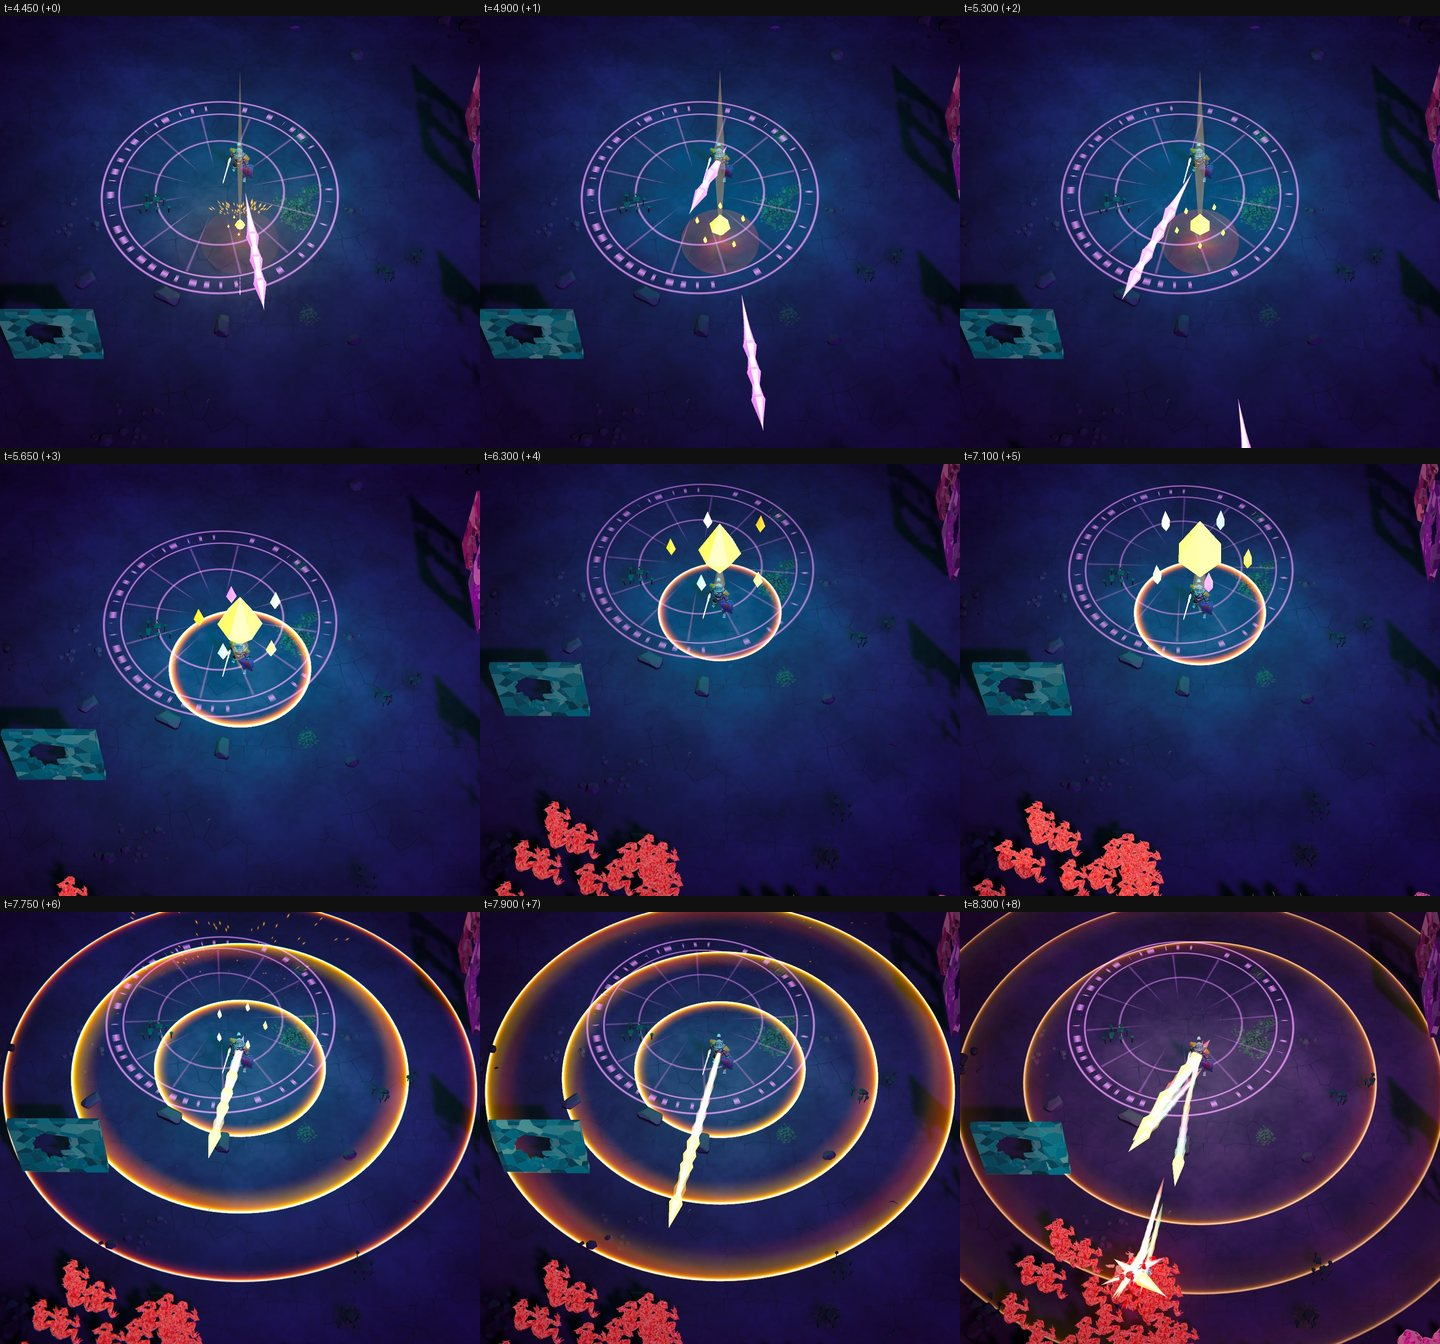
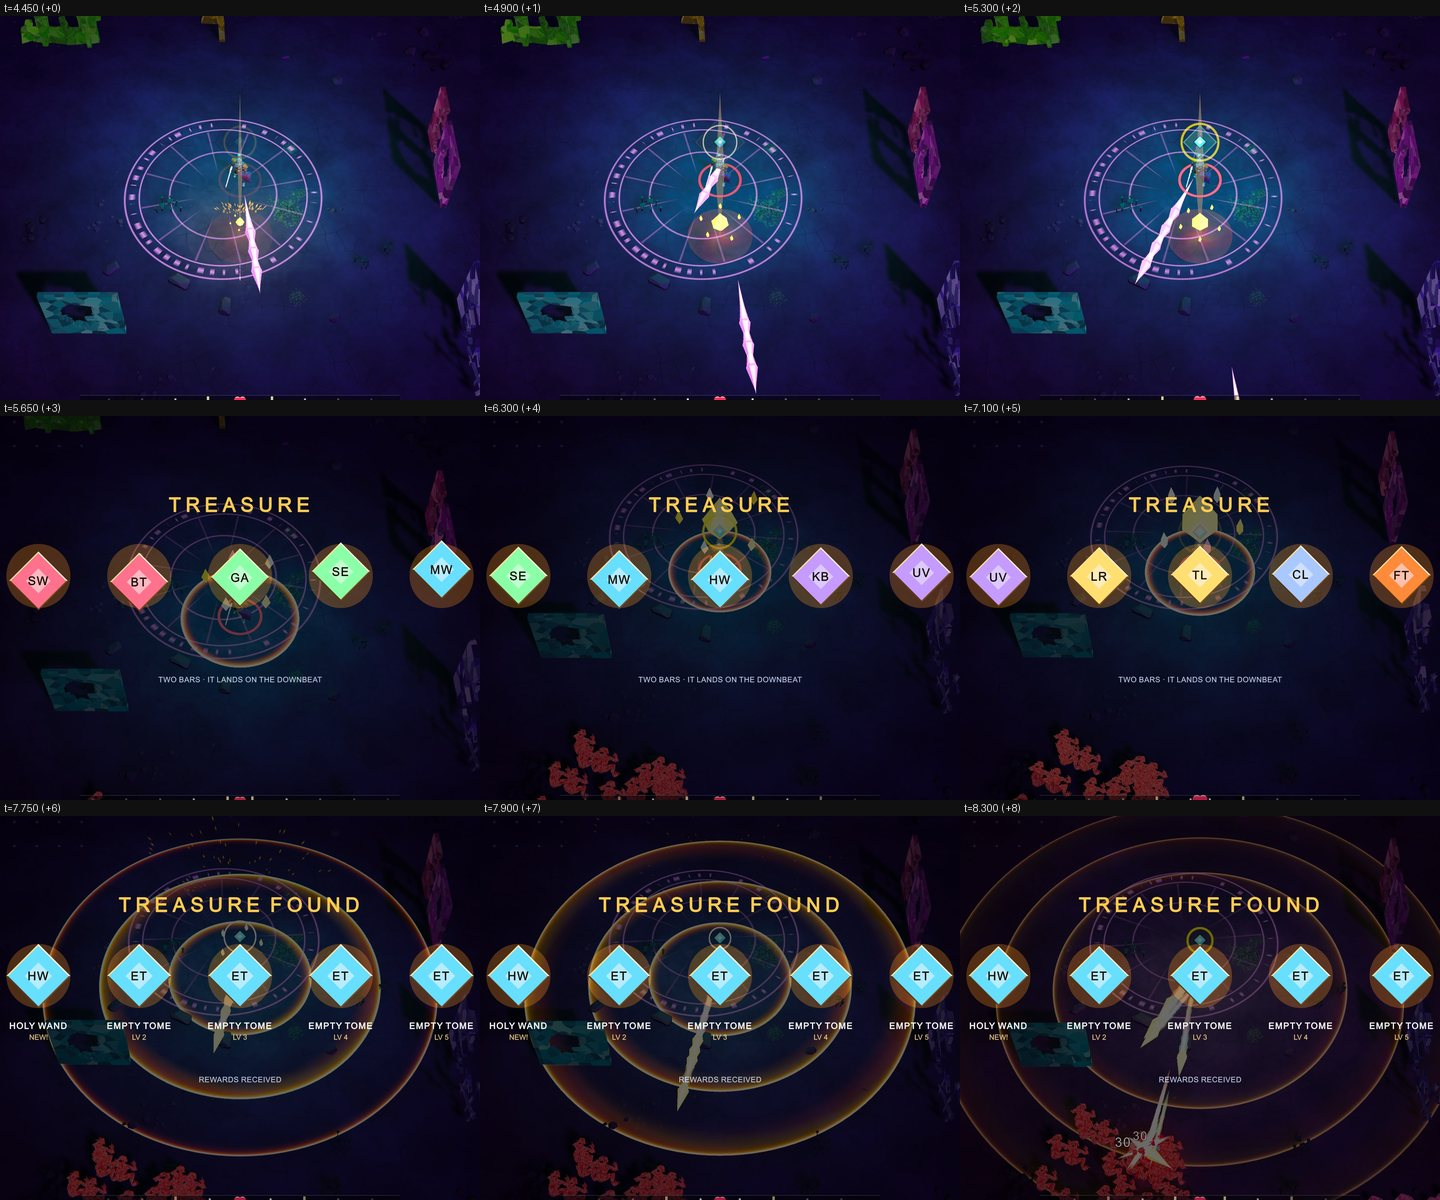
feat(game): the HUD's chest card takes the sim's chest events — opening with the roulette, its gems cycling on each tick as it comes, TREASURE FOUND with each reward from the landing; the chest strip with the HUD (ps-msz.6.8)

diff --git a/game/Assets/Game/Client/Hud/ChestCards.cs b/game/Assets/Game/Client/Hud/ChestCards.cs
@@ -26,10 +26,12 @@ namespace Game.Client.Hud
     /// A chest's roulette over the dimmed run (native's slice/treasure.rs): TREASURE over one, three or
     /// five gold-lit gems (the tier's items) cycling through the arsenal's items on each eighth-note
     /// tick, jittering less as the ticks run out, then landing together on the downbeat: TREASURE
-    /// FOUND, each gem swelling with its reward's name and rank. The sim's chests (ps-msz.6.8) fill
-    /// <see cref="ChestRoulette"/>; until then `--chest-preview S[:TIER]` opens a preview at song time S
-    /// whose ticks and landing come from the beats known then (eight eighths from the next
-    /// downbeat), with the hero's own items as its rewards, for stills. The preview freezes nothing.
+    /// FOUND, each gem swelling with its reward's name and rank. The sim's chest events
+    /// (<see cref="SimEventKind.Chest"/>, ps-msz.6.8) fill <see cref="ChestRoulette"/> as they settle:
+    /// its opening, each tick as it comes (the beats aren't known eight eighths ahead), the landing and
+    /// the rewards. `--chest-preview S[:TIER]` still opens a client-only preview at song time S whose
+    /// ticks and landing come from the beats known then (eight eighths from the next downbeat), with
+    /// the hero's own items as its rewards, for stills of the cards alone; it freezes nothing.
     /// </summary>
     public sealed class ChestCards
     {
@@ -43,6 +45,7 @@ namespace Game.Client.Hud
         readonly List<(VisualElement Gem, Label Mark, Label Name, Label Rank)> _items = new List<(VisualElement, Label, Label, Label)>();
         readonly double _previewAt = double.NaN;
         readonly int _previewTier = 3;
+        readonly List<double> _ticks = new List<double>(Eighths);
         ChestRoulette _roulette;
 
         public ChestCards(VisualElement layer, GameContent content, string preview)
@@ -56,6 +59,45 @@ namespace Game.Client.Hud
             var parts = preview.Split(':');
             _previewAt = double.Parse(parts[0], NumberStyles.Float, CultureInfo.InvariantCulture);
             if (parts.Length > 1) _previewTier = Math.Max(1, Math.Min(3, int.Parse(parts[1], CultureInfo.InvariantCulture)));
+        }
+
+        /// <summary>A chest event from the sim: the roulette opens, ticks, lands and gives its rewards.</summary>
+        public void OnEvent(in SimEvent e)
+        {
+            if (e.Kind != SimEventKind.Chest || _content == null) return;
+            var c = e.AsChest;
+            switch (c.Phase)
+            {
+                case ChestPhase.Open:
+                {
+                    int count = _content.Progression.Chests.ItemsByTier[Math.Max(1, Math.Min(3, c.Tier)) - 1];
+                    _ticks.Clear();
+                    Show(new ChestRoulette
+                    {
+                        Open = true, Tier = c.Tier, Opened = e.T, Ticks = Array.Empty<double>(),
+                        Landed = double.PositiveInfinity, Closes = double.PositiveInfinity,
+                        Rewards = new string[count], Ranks = new int[count],
+                    });
+                    break;
+                }
+                case ChestPhase.Tick:
+                    _ticks.Add(e.T);
+                    _roulette.Ticks = _ticks.ToArray();
+                    break;
+                case ChestPhase.Land:
+                    _roulette.Landed = e.T;
+                    _roulette.Closes = e.T + ShowAfterLandingS;
+                    break;
+                case ChestPhase.Reward:
+                {
+                    int k = c.Place;
+                    if (_roulette.Rewards == null || k < 0 || k >= _roulette.Rewards.Length) break;
+                    var card = c.Reward;
+                    _roulette.Rewards[k] = HudText.Id(_content, card);
+                    _roulette.Ranks[k] = card.After;
+                    break;
+                }
+            }
         }
 
         /// <summary>Ticks so far at song time <paramref name="s"/>.</summary>
@@ -96,7 +138,7 @@ namespace Game.Client.Hud
                 mark.text = HudText.Mark(id);
                 mark.style.translate = new Translate(0, jitter);
                 name.text = landed ? HudText.Name(id) : "";
-                rank.text = landed ? (_roulette.Ranks[k] <= 1 ? "NEW!" : "LV " + _roulette.Ranks[k]) : "";
+                rank.text = !landed || id == null ? "" : _roulette.Ranks[k] <= 1 ? "NEW!" : "LV " + _roulette.Ranks[k];
             }
         }
 

diff --git a/game/Assets/Game/Tests/EditMode/HudTests.cs b/game/Assets/Game/Tests/EditMode/HudTests.cs
@@ -1,8 +1,13 @@
 using System;
 using System.Collections.Generic;
+using System.IO;
+using System.Linq;
 using Game.Client.Hud;
 using NUnit.Framework;
 using PS.Game.Sim;
+using PS.Game.Sim.Content;
+using UnityEngine;
+using UnityEngine.UIElements;
 using Is = NUnit.Framework.Is;
 
 namespace Game.Tests
@@ -131,6 +136,42 @@ namespace Game.Tests
             Assert.That(HudText.Name("lightning-ring"), Is.EqualTo("LIGHTNING RING"));
             Assert.That(HudText.Mark("magic-wand"), Is.EqualTo("MW"));
             Assert.That(HudText.Mark("garlic"), Is.EqualTo("GA"));
+        }
+
+        [Test]
+        public void TheSimsChestEventsFillTheRouletteTicksAsTheyComeAndItsRewardsAtTheLanding()
+        {
+            var content = GameContent.Load(Path.Combine(Application.dataPath, "..", "Content"));
+            var layer = new VisualElement();
+            layer.Add(new VisualElement { name = "chest-items" });
+            layer.Add(new Label { name = "chest-heading" });
+            layer.Add(new Label { name = "chest-hint" });
+            var chest = new ChestCards(layer, content, null);
+            var sim = new Simulation(new SimConfig());
+            int holy = content.WeaponIndex("holy-wand"), wand = content.WeaponIndex("magic-wand");
+            chest.OnEvent(SimEvent.Chest(2.5, 0, ChestPhase.Open, 2, 25, 0, 0));
+            for (int k = 0; k < 8; k++) chest.OnEvent(SimEvent.Chest(3 + 0.25 * k, 0, ChestPhase.Tick, 2, k, 0, 0));
+            chest.OnEvent(SimEvent.Chest(5, 0, ChestPhase.Land, 2, 3, 0, 0));
+            chest.OnEvent(SimEvent.Chest(5, 0, ChestPhase.Reward, 2, 1 + holy, 0, 0));
+            chest.OnEvent(SimEvent.Chest(5, 0, ChestPhase.Reward, 2, (1 + wand) | (3 << 6) | (1 << 10), 0, 0));
+            chest.OnEvent(SimEvent.Chest(5, 0, ChestPhase.Reward, 2, 2 << 10, 0, 0));
+            var heading = layer.Q<Label>("chest-heading");
+            var items = layer.Q("chest-items");
+
+            chest.Present(2.4, sim, default);
+            Assert.That(layer.style.display.value, Is.EqualTo(DisplayStyle.Flex));
+            Assert.That(layer.style.opacity.value, Is.EqualTo(0f), "not before it opens");
+            chest.Present(4.1, sim, default);
+            Assert.That(heading.text, Is.EqualTo("TREASURE"));
+            Assert.That(items.childCount, Is.EqualTo(3), "a tier-2 chest's three items");
+            chest.Present(5.0, sim, default);
+            Assert.That(heading.text, Is.EqualTo("TREASURE FOUND"), "it lands on the landing's frame");
+            var names = items.Query<Label>(className: "reward__name").ToList().Select(l => l.text);
+            Assert.That(names, Is.EqualTo(new[] { "HOLY WAND", "MAGIC WAND", "HEAL" }));
+            var ranks = items.Query<Label>(className: "reward__rank").ToList().Select(l => l.text);
+            Assert.That(ranks, Is.EqualTo(new[] { "NEW!", "LV 4", "" }));
+            chest.Present(5 + ChestCards.ShowAfterLandingS, sim, default);
+            Assert.That(layer.style.display.value, Is.EqualTo(DisplayStyle.None), "its card goes after the landing");
         }
     }
 }

diff --git a/game/Assets/Game/Client/Hud/HudPresenter.cs b/game/Assets/Game/Client/Hud/HudPresenter.cs
@@ -108,6 +108,9 @@ namespace Game.Client.Hud
                 case SimEventKind.Card:
                     _cards.OnEvent(e);
                     break;
+                case SimEventKind.Chest:
+                    _chest.OnEvent(e);
+                    break;
                 case SimEventKind.RunEnd:
                     _end.Ended(e.T, e.AsRunEnd.Why);
                     break;

diff --git a/game/evidence/evolutions/README.md b/game/evidence/evolutions/README.md
@@ -14,7 +14,7 @@ each hero holding only the weapon named, its levels opening no cards:
 ```sh
 P="$PWD/native/playlists/survivors-30.m3u"
 uv run --project demo3d/tools game look chest --build --backend mono --evidence evolutions \
-  --at 4.45,4.9,5.3,5.65,6.3,7.1,7.75,7.9,8.3 --strip 3 --crop 460,140,1000,900 \
+  --at 4.45,4.9,5.3,5.65,6.3,7.1,7.75,7.9,8.3 --strip 3 --crop 360,60,1200,960 \
   --player-args "--file $P --arsenal magic-wand:8,empty-tome:1 --no-cards --debug chest@4.4 --walk down@5.3-5.8"
 uv run --project demo3d/tools game look holy-wand --backend mono --evidence evolutions \
   --at 5.65,5.7675,5.885,6.0025,6.12,6.2375 --strip 3 --crop 560,280,900,800 \
@@ -38,11 +38,14 @@ uv run --project demo3d/tools game look bloody-tear --backend mono --evidence ev
   over a glow, five shards (its five items) circling it, under a faint column of light (4.9, 5.3 s).
   The knight walks down onto it (`--walk`) and takes it (5.65 s): it rises over the knight's head,
   grown, and spins over a gold ring while the world is frozen, flashing on each of its eight eighths
-  with its shards cycling the weapons' colours (6.3, 7.1 s). It lands on the downbeat after them
-  (between 7.1 and 7.75 s): it bursts, its rewards fly into the knight, and Holy Wand's gold arrival
-  rings sweep out with six rays of sparks (7.75, 7.9 s): the wand at rank 8 and its partner, Empty
-  Tome, owned, so the first reward evolves it. Play resumes on that beat and the gold stream of Holy
-  Wand flies at the horde (8.3 s, the blossom zone).
+  with its shards cycling the weapons' colours, under the HUD's TREASURE card (ps-msz.6.9, fed by the
+  chest events), whose five gems cycle on the same ticks (6.3, 7.1 s). It lands on the downbeat after
+  them (between 7.1 and 7.75 s): TREASURE FOUND, HOLY WAND (NEW!) and four ranks of Empty Tome; the
+  chest bursts, its rewards fly into the knight, and Holy Wand's gold arrival rings sweep out with six
+  rays of sparks (7.75, 7.9 s): the wand at rank 8 and its partner, Empty Tome, owned, so the first
+  reward evolves it. Play resumes on that beat and Holy Wand's gold stream flies at the horde under
+  the fading card (8.3 s). The evolutions' strips below predate the HUD's landing on staging and show
+  no HUD.
 - [holy-wand.jpg](holy-wand.jpg): Holy Wand's bolts on the eighths and their hits on the sixteenths,
   gold crystals with a long streak of afterimages through a prism's six hues. Against the bloom the
   hues read as coloured fringes along a gold-white stream rather than distinct bands (an operator row
@@ -81,6 +84,8 @@ uv run --project demo3d/tools game look bloody-tear --backend mono --evidence ev
   an accented beat breaking a structure where Garlic's, or Soul Eater's off the accent, doesn't.
 - Mutation-checked: dropping the crowd rule, the first tick's downbeat, the pause's hold, the
   level-up's guard or the evolution gate on structure breaks each fails a test.
+- game/Assets/Game/Tests/EditMode/HudTests.cs: the chest events fill the HUD's roulette, its ticks as
+  they come, TREASURE FOUND on the landing's frame with each reward's name and rank, gone after.
 - game/Assets/Game/Tests/EditMode/EffectsSoundTests.cs: the chest's coins as it is taken and lands,
   a ping on each of its eighths, and one transformation for a landing with two evolutions.
 

diff --git a/docs/design/unity-game.md b/docs/design/unity-game.md
@@ -1849,7 +1849,9 @@ engine/chests.rs), presented by `Client/Pickups/ChestView.cs`:
   landing it bursts in gold and each shard, in its reward's colour, flies into the hero's chest under
   a sweeping ring of light. Sounds (native's palette): coins as it is taken and as it lands, a glass
   ping on each eighth climbing the major pentatonic, one transformation for a landing that evolves.
-  The HUD (ps-msz.6.9) draws the cards from `SimState.Chest` and the chest events.
+  The HUD's `ChestCards` (ps-msz.6.9) takes the chest events: its card opens with the roulette,
+  its gems cycle on each tick as it comes, and TREASURE FOUND shows each reward's name and rank from
+  the landing.
 - **Debug**: `--debug chest@S` (`DebugCommand.Chest`) drops a tier-3 chest of the last evolving
   minute's treasure two tiles ahead of the hero, for it to walk onto. Evidence: [game/evidence/evolutions](../../game/evidence/evolutions/README.md).
 
